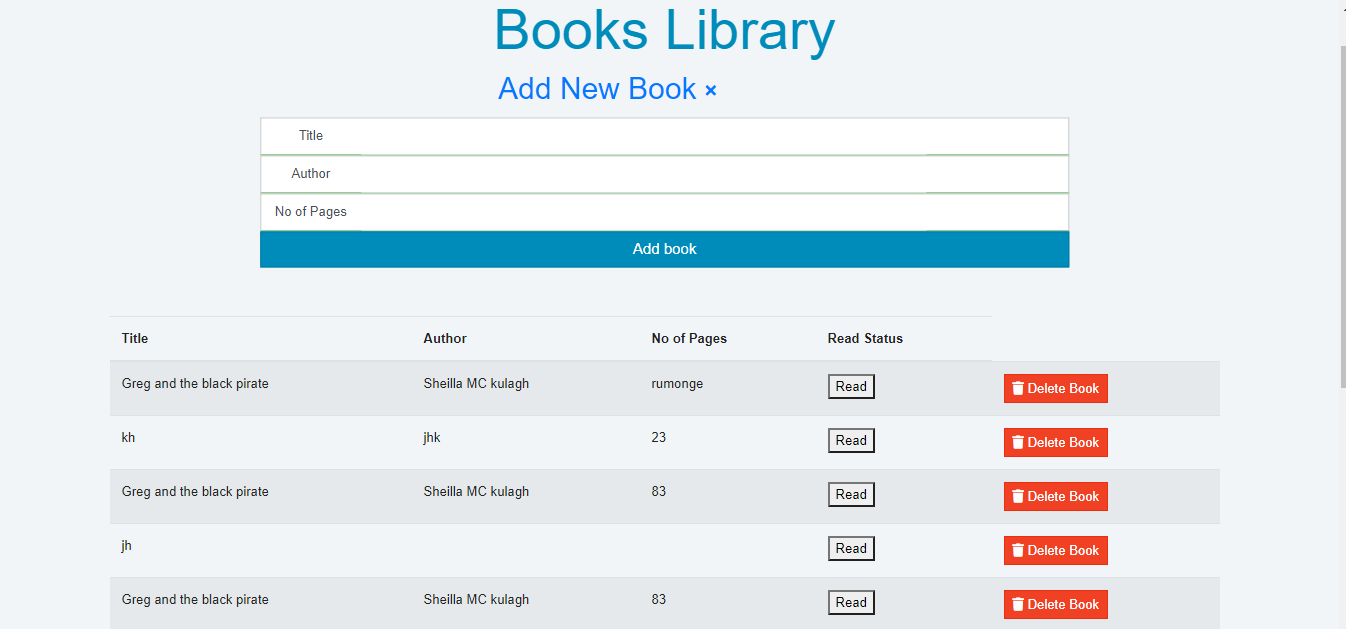
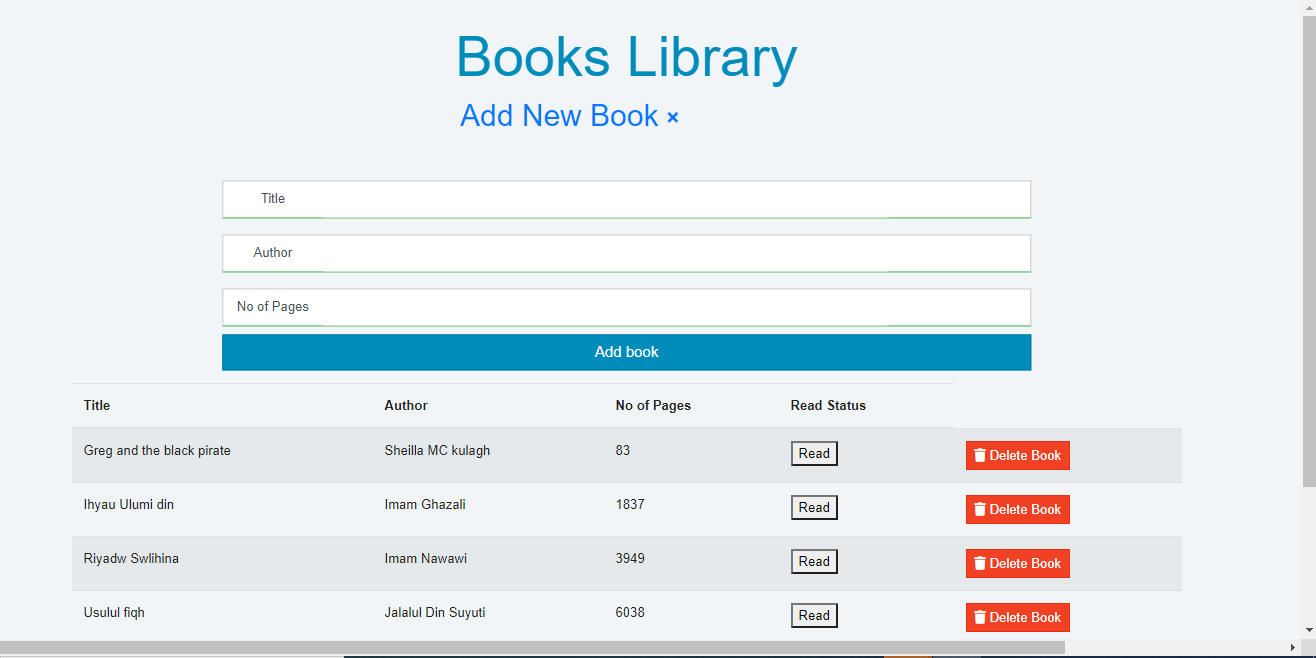
removing lint errors

diff --git a/booklibrary.html b/booklibrary.html
@@ -16,7 +16,7 @@
     
     <div class="container mt-4">
         
-        <button id="toggle-btn" onclick="toggle();">Read</button>
+        <!-- <button id="toggle-btn" onclick="toggle();">Read</button> -->
         <h1 class="display-4 text-center text-primary">Books Library</h1>
         <button href="#" id="add-new-book" class="btn btn-outline-primary"><i class="fas fa-plus"></i>     Add New Book</button>
     <div class="header-container">

diff --git a/style.css b/style.css
@@ -13,7 +13,7 @@ body {
 .header-container {
   display: none;
   flex-direction: column;
-  height: 30vh;
+  height: 36vh;
   background-size: cover;
 }
 
